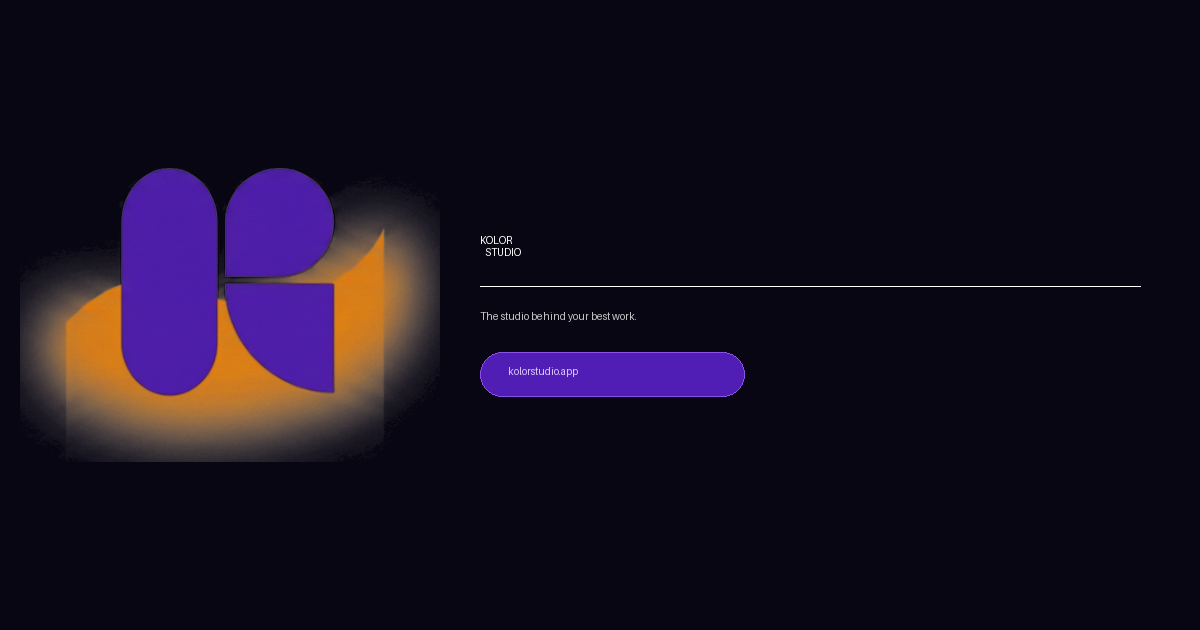
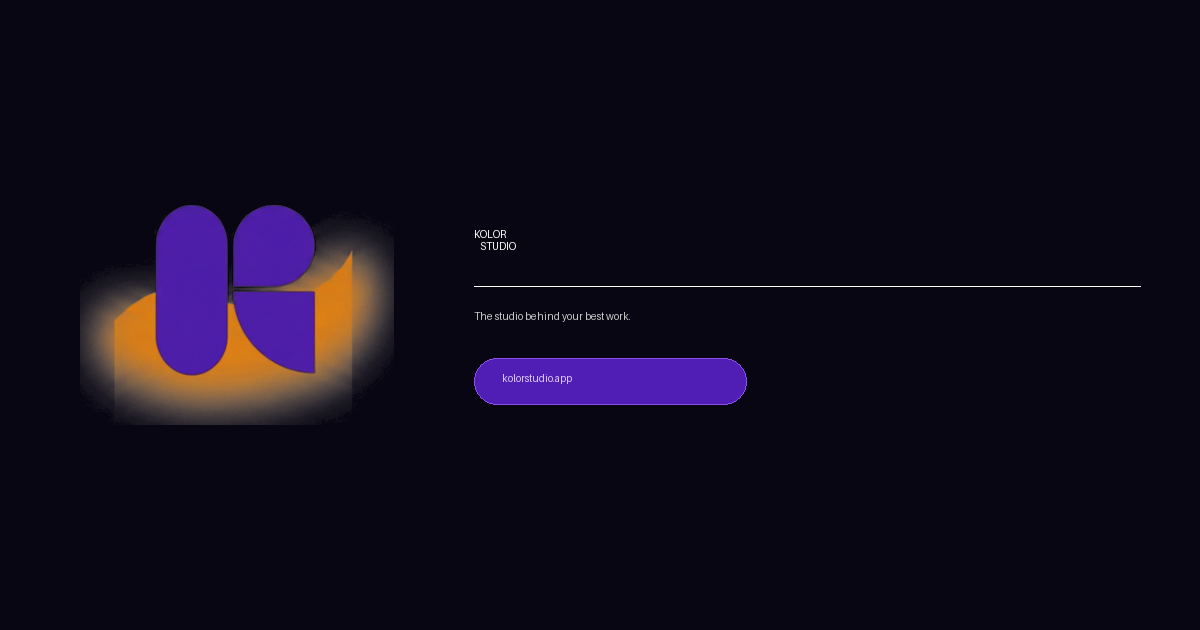
fix: OG card mark smaller + text larger + title 51 chars
- Mark reduced to 220px tall so text_x has more room
- KOLOR at 120pt, STUDIO at 52pt, gap between them 2px
- og:title set to exactly 51 chars (within 50-60 optimal)

diff --git a/frontend/index.html b/frontend/index.html
@@ -24,13 +24,13 @@
     <meta property="og:image:width" content="1200" />
     <meta property="og:image:height" content="630" />
     <meta property="og:image:alt" content="KOLOR Studio — The studio behind your best work." />
-    <meta property="og:title" content="KOLOR Studio — The CRM for Creative Professionals" />
+    <meta property="og:title" content="KOLOR Studio — CRM for Photographers and Artists" />
     <meta property="og:description" content="Leads, quotes, contracts, and calendar — in one tool built for photographers, designers, and fine artists. The studio behind your best work." />
     <meta property="og:url" content="https://kolorstudio.app" />
     <meta property="og:type" content="website" />
     <meta name="twitter:card" content="summary_large_image" />
     <meta name="twitter:image" content="https://kolorstudio.app/og-card.png" />
-    <meta name="twitter:title" content="KOLOR Studio — The CRM for Creative Professionals" />
+    <meta name="twitter:title" content="KOLOR Studio — CRM for Photographers and Artists" />
     <meta name="twitter:description" content="Leads, quotes, contracts, and calendar — in one tool built for photographers, designers, and fine artists." />
   </head>
   <body>
